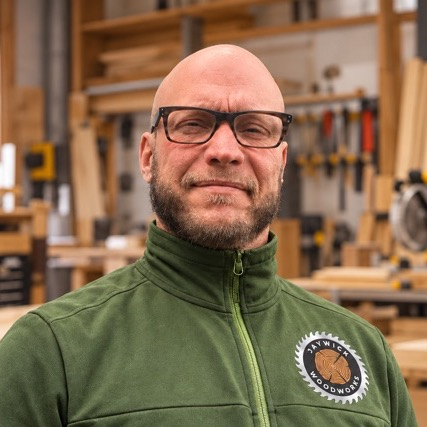
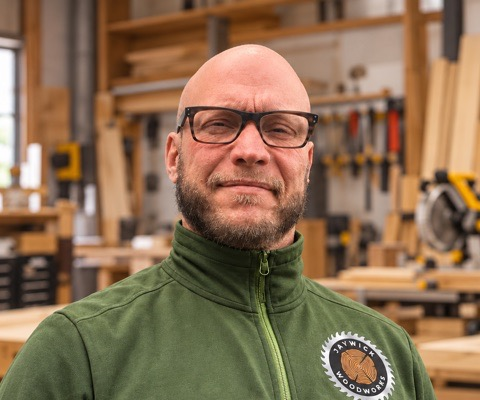
update to wickwork -rectangle instead of circle

diff --git a/tap/wickwork/style.css b/tap/wickwork/style.css
@@ -22,7 +22,7 @@ h1 { font-size: clamp(32px, 7.5vw, 42px); line-height: 1.08; letter-spacing: -.0
 .tagline { color: var(--copper); font-size: clamp(20px, 4.5vw, 25px); font-weight: 700; line-height: 1.3; margin: 0 0 20px; }
 .description { color: #bfc2bb; font-size: 17px; line-height: 1.5; max-width: 380px; margin: 0 auto 23px; }
 .maker { max-width: 420px; margin: 0 auto 23px; padding-bottom: 23px; border-bottom: 3px solid var(--sage); }
-.headshot { display: block; width: 132px; height: 132px; border-radius: 50%; margin: 0 auto 16px; object-fit: cover; object-position: center top; }
+.headshot { display: block; width: 148px; height: 125px; border-radius: 5px; margin: 0 auto 16px; object-fit: cover; object-position: center top; }
 h2 { font-size: 20px; font-weight: 600; margin: 0 0 5px; }
 .maker p { font-size: 15px; line-height: 1.5; color: #bfc2bb; margin: 0; }
 .actions { display: grid; gap: 10px; max-width: 420px; margin: auto; }

diff --git a/tap/wickwork/index.html b/tap/wickwork/index.html
@@ -46,7 +46,7 @@
     <link rel="preconnect" href="https://fonts.googleapis.com">
     <link rel="preconnect" href="https://fonts.gstatic.com" crossorigin>
     <link rel="stylesheet" href="https://fonts.googleapis.com/css2?family=Source+Sans+Pro:wght@300;400;600;700;900&display=swap">
-    <link rel="stylesheet" href="style.css?v=20261014-circle">
+    <link rel="stylesheet" href="style.css?v=20261014-rectangle">
   </head>
 
   <body>
@@ -78,7 +78,7 @@
           </p>
 
           <div class="maker">
-            <img class="headshot" src="jay-portrait.jpg" alt="Jay Wickham in his woodworking shop" width="264" height="264">
+            <img class="headshot" src="jay-portrait.jpg" alt="Jay Wickham in his woodworking shop" width="296" height="250">
             <div>
               <h2>Jay Wickham</h2>
               <p>Third-generation woodworker.<br>30 years of design/build experience.</p>
